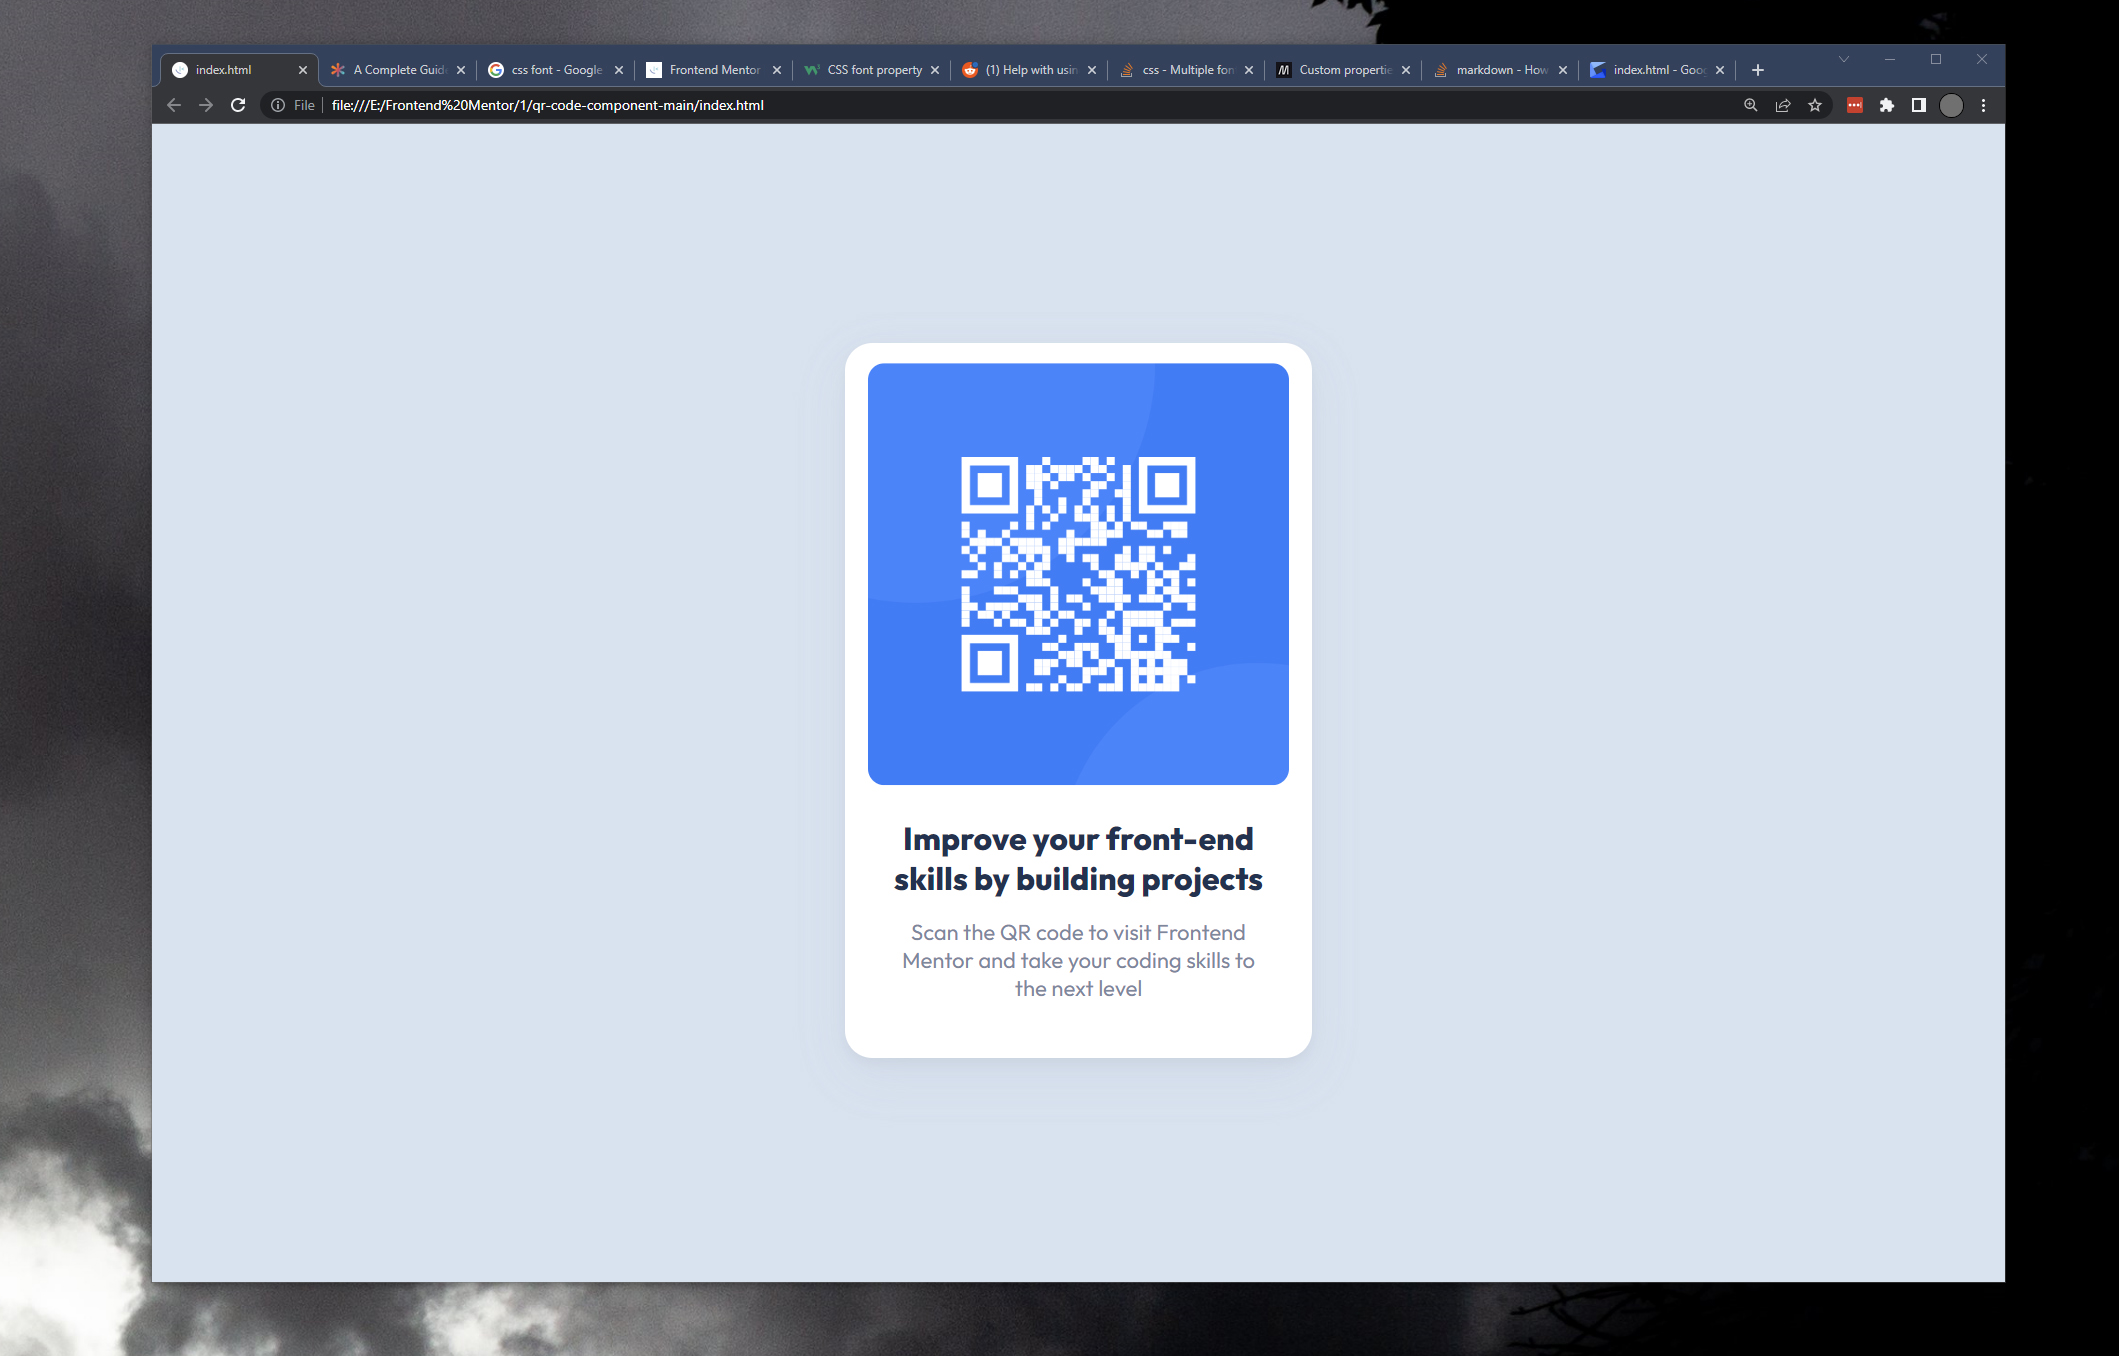
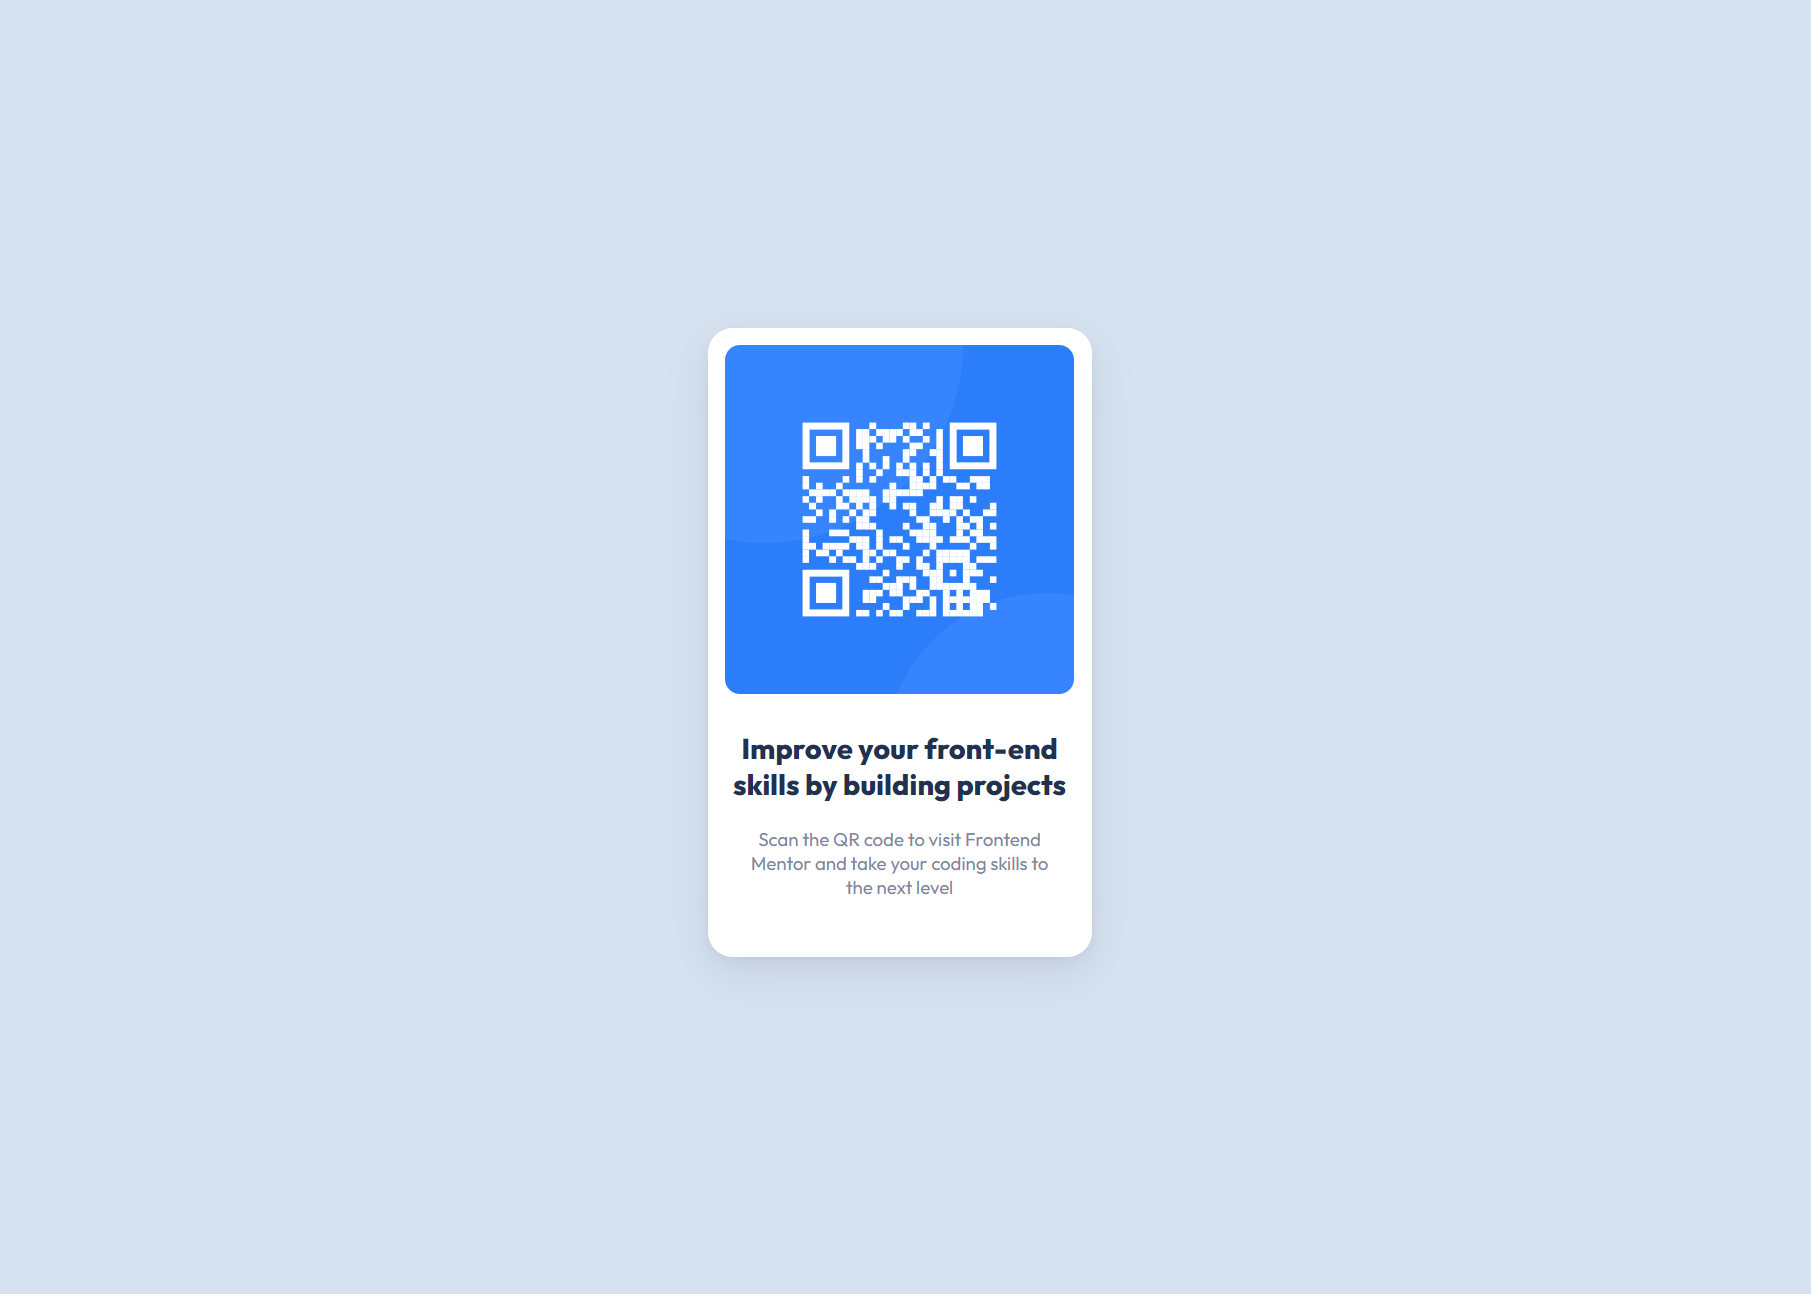
Fixed resizing across different screen sizes and browsers and added README

diff --git a/style.css b/style.css
@@ -17,6 +17,7 @@ html {
 }
 
 body {
+    width: 100%;
     display: flex;
     justify-content: center;
     align-items: center;
@@ -29,37 +30,46 @@ body {
     align-items: center;
     justify-content: center;
     background-color: hsl(0, 0%, 100%);
-    width: 425px;
-    height: 650px;
-    margin: 100px;
+    max-width: 15vw;
+    height: auto;
     border-radius: 25px;
-    box-shadow: 0 5px 10px hsla(213, 20%, 78%, 0.349), 0 15px 44px rgba(129, 134, 155, 0.082);
+    box-shadow: 0 5px 10px hsla(212, 15%, 60%, 0.13), 0 15px 44px rgba(173, 178, 196, 0.39);
+}
+
+.qr_image_container {
+    display: flex;
+    justify-content: center;
+    border-radius: 15px;
+    width: 100%;
+    max-width: 91%;
+    height: auto;
+    overflow: hidden;
+    margin-top: 4.3%;
 }
 
 .qr_image {
     display: flex;
-    border-radius: 15px;
-    height: 59%;
-    transform: translate(0, 1.0%);
-    overflow: hidden;
+    max-width: 100%;
+    height: auto;
 }
 
 h2 {
     text-align: center;
     font-family: 'Outfit';
     font-weight: 700;
-    font-size: 29px;
+    font-size: 1.125vw;
     width: 90%;
     color: hsl(218, 44%, 22%);
-    transform: translate(0, 14%);
+    margin-top: 2.7vh;
+    margin-bottom: 0.5vh;
 }
 
 p {
     text-align: center;
     font-family: 'Outfit';
     font-weight: 400;
-    font-size: 20px;
+    font-size: 0.725vw;
     width: 80%;
     color: hsl(220, 15%, 55%);
-    transform: translate(0, -22%);
+    margin-bottom: 4.4vh;
 }

diff --git a/index.html b/index.html
@@ -7,7 +7,7 @@
 </head>
 <body>
   <div class="main_container">
-    <div class="qr_image"><img src="images/image-qr-code.png"></div>
+    <div class="qr_image_container"><img class="qr_image" src="images/image-qr-code.png" width="576" height="576"></div>
     <h2>Improve your front-end skills by building projects</h2>
     <p>Scan the QR code to visit Frontend Mentor and take your coding skills to the next level</p>
   </div>

diff --git a/README.md b/README.md
@@ -1,0 +1,39 @@
+# Frontend Mentor - QR code component solution
+
+This is a solution to the [QR code component challenge on Frontend Mentor](https://www.frontendmentor.io/challenges/qr-code-component-iux_sIO_H). Frontend Mentor challenges help you improve your coding skills by building realistic projects. 
+
+## Table of contents
+
+  - [Screenshot](#screenshot)
+  - [Links](#links)
+  - [Built with](#built-with)
+  - [What I learned](#what-i-learned)
+- [Author](#author) 
+
+
+### Screenshot
+
+![QR component screenshot](./qr_img_1.jpg)
+
+
+### Links
+
+https://nachtwurst.github.io/QR_code_component/
+
+
+### Built with
+
+- HTML5
+- CSS
+- Flexbox
+
+
+### What I learned
+
+I learned a lot from this exercise, since I started with basically zero knowledge of HTML and CSS. I learned how to import fonts, how to position things on the screen, how to use box-shadows, how to round the corners of elements, and, most importantly, how to use Flexbox. I also learned how to use max-width to allow elements to resize to fit nicely on mobile.
+
+
+## Author
+
+- Frontend Mentor - [@nachtwurst](https://www.frontendmentor.io/profile/nachtwurst)
+
